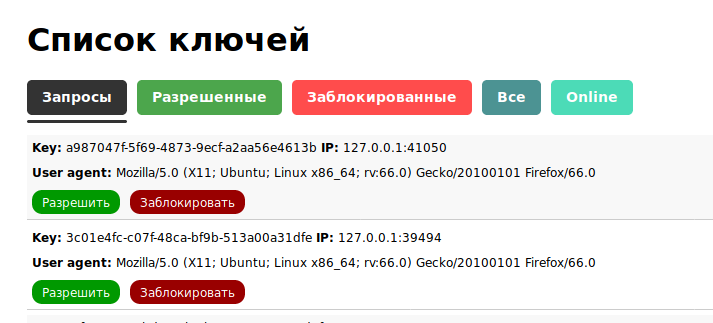
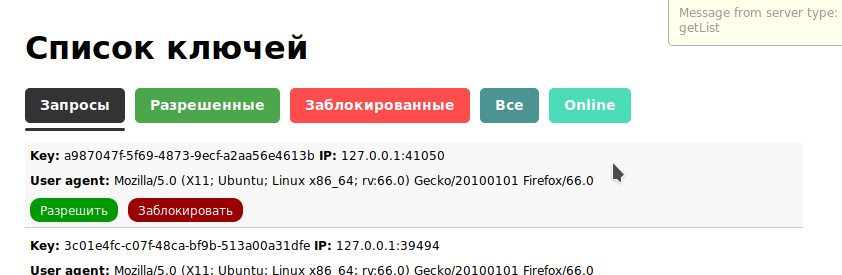
add logout button for admins and small log websocket connections

diff --git a/server/http_files/public/js/list.js b/server/http_files/public/js/list.js
@@ -23,7 +23,8 @@ new Vue({
             getList: "getList",
             newKey: "newKey"
         },
-        editButName : "Разрешить"
+        editButName : "Разрешить",
+        connectionStatusText: ""
     },
     created: function() {
 
@@ -31,6 +32,24 @@ new Vue({
 
     },
     methods: {
+        logout: function() {
+            fetch('/v1/logout')
+                .then((response) => {
+                    if(response.ok) {
+                        return response.json();
+                    }
+
+                    throw new Error('Network response was not ok');
+                })
+                .then((json) => {
+                    if (json.Status === 200) {
+                        window.location.href = "/";
+                    }
+                })
+                .catch((error) => {
+                    console.log(error);
+                });
+        },
         openPopUp: function(key, name, status) {
 
             this.editKey.key = key;
@@ -84,7 +103,8 @@ new Vue({
             this.ws = new WebSocket('ws://' + window.location.host + '/ws_list');
 
             this.ws.addEventListener('open', function (e) {
-                self.getListByStatus(status)
+                self.getListByStatus(status);
+                self.connectionStatusText = "Connected to WebSocket";
             });
 
             this.ws.addEventListener('message', function(e) {
@@ -123,13 +143,15 @@ new Vue({
                     }
                 }
 
+                self.connectionStatusText = "Message from server type: " + msg.Type
+
             });
 
             this.ws.addEventListener('close', function (e) {
-                console.log("close conn: " + e.code + " -- " + e.reason )
+                self.connectionStatusText = "Connected close: " + e.code;
             });
             this.ws.addEventListener('error', function (e) {
-                console.log("error ws connection")
+                self.connectionStatusText = "error " + e + " ws connection";
             });
         }
     }

diff --git a/server/http_files/list.html b/server/http_files/list.html
@@ -12,7 +12,10 @@
 <body>
 <main id="app">
     <div class="main_div">
-        <h1>Список ключей</h1>
+        <div class="f_l w_300"><h1>Список ключей</h1></div>
+        <div class="f_l w_100 logout_bt" @click="logout()">Выйти</div>
+        <div class="clear"></div>
+
         <div class="button_sort_holder">
             <div class="button_sr but_empty_k f_l"
                  :class="{but_active: activeStatus == statuses.empty}"
@@ -65,6 +68,7 @@
             </div>
         </div>
     </div>
+    <div class="connection_status" v-html="connectionStatusText"></div>
 </main>
 <script type="application/javascript" src="public/js/vue.js"></script>
 <script type="application/javascript" src="public/js/list.js"></script>

diff --git a/server/http_files/public/css/style.css b/server/http_files/public/css/style.css
@@ -278,3 +278,28 @@ fieldset {
 .btn_set_status_key.block_btn {
     background: #990000;
 }
+
+.connection_status {
+    position: fixed;
+    width: 200px;
+    top: 15px;
+    right: 10px;
+    background: #FFFFCC;
+    border-radius: 5px;
+    border: 1px solid #006633;
+    padding: 10px;
+    font-size: 12px;
+    opacity: 0.4;
+}
+
+.connection_status:hover{
+    opacity: 1;
+    cursor: pointer;
+}
+
+.logout_bt {
+    line-height: 5;
+    color: #0066FF;
+    cursor: pointer;
+    text-decoration: underline;
+}
